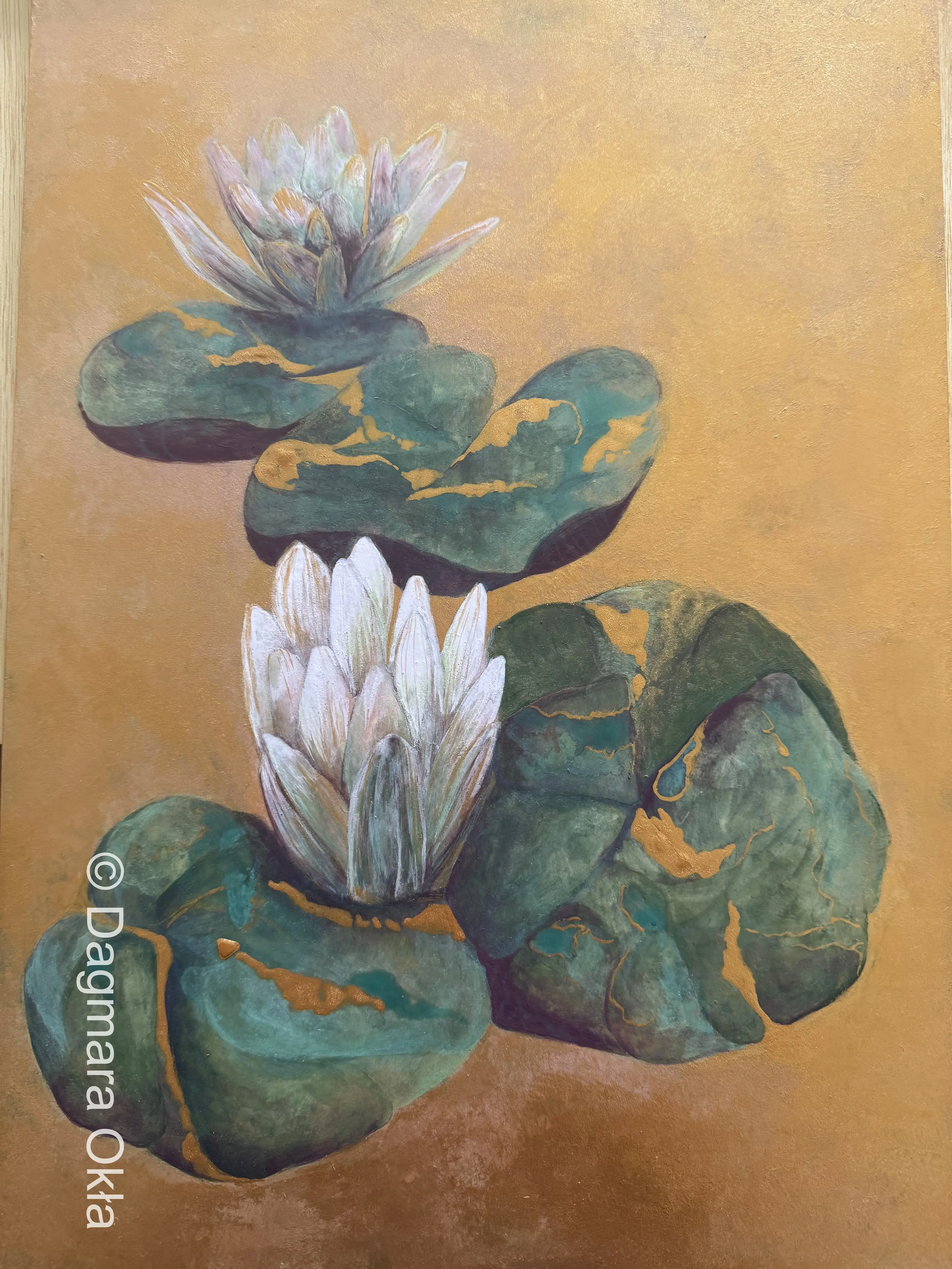
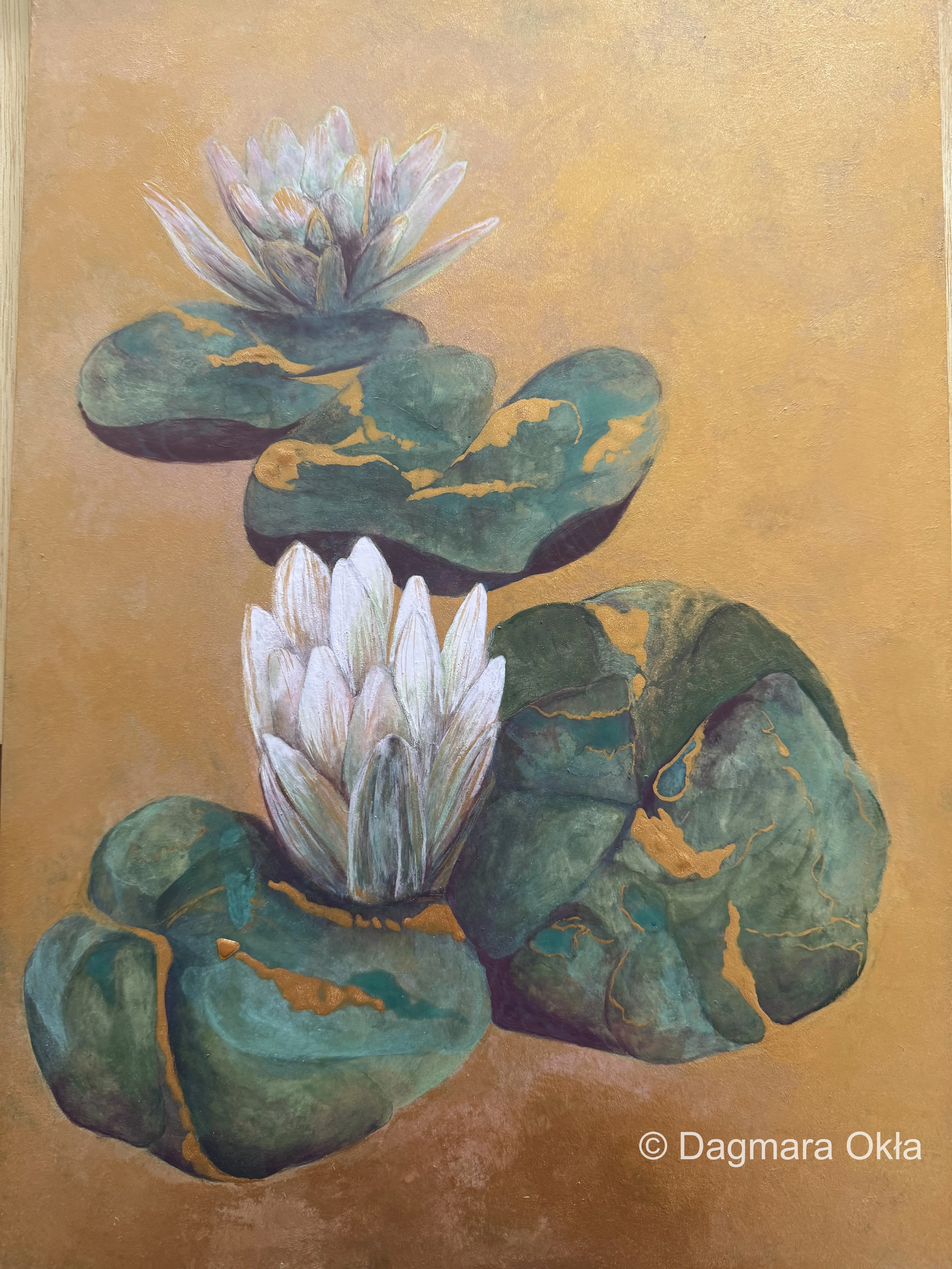
Add Polish lightbox translations, fix rotated images with watermarks

Changed region(s): [[0.0621, 0.6544, 0.1242, 0.966], [0.7141, 0.8725, 0.8693, 0.9349], [0.9003, 0.8725, 0.9624, 0.9349]]

diff --git a/index.html b/index.html
@@ -1927,6 +1927,8 @@
                 'catalog.loading': 'Loading artworks...',
                 'catalog.cta': 'Inquire About Works',
                 'lightbox.zoomHint': 'Click image to zoom',
+                'lightbox.woodenPanel': 'Wooden panel',
+                'lightbox.japanesePaper': 'Japanese paper',
                 'contact.label': 'Get in Touch',
                 'contact.title': "Let's Connect",
                 'contact.intro': "Interested in commissioning a piece, purchasing artwork, or simply want to say hello? I'd love to hear from you.",
@@ -1962,6 +1964,8 @@
                 'catalog.loading': 'Ładowanie dzieł...',
                 'catalog.cta': 'Zapytaj o prace',
                 'lightbox.zoomHint': 'Kliknij obraz, aby powiększyć',
+                'lightbox.woodenPanel': 'Panel drewniany',
+                'lightbox.japanesePaper': 'Papier japoński',
                 'contact.label': 'Kontakt',
                 'contact.title': 'Skontaktuj się',
                 'contact.intro': 'Zainteresowany zamówieniem dzieła, zakupem pracy lub po prostu chcesz się przywitać? Chętnie nawiążę kontakt.',
@@ -2431,11 +2435,24 @@
             // Store high-res path for zoom functionality
             lightboxImage.dataset.highres = `Data/Lightbox_new/Original/${artwork.filename}.webp`;
             
-            // Update caption
+            // Update caption with localization
             document.getElementById('caption-title').textContent = artwork.title;
             document.getElementById('caption-dimensions').textContent = artwork.dimensions;
-            document.getElementById('caption-material').textContent = artwork.material;
-            document.getElementById('caption-paper').textContent = artwork.paper;
+            
+            // Translate material
+            const materialText = artwork.material === 'Wooden panel' 
+                ? translations[currentLang]['lightbox.woodenPanel'] 
+                : artwork.material;
+            document.getElementById('caption-material').textContent = materialText;
+            
+            // Translate paper (keep paper name, translate prefix)
+            let paperText = artwork.paper;
+            if (artwork.paper.startsWith('Japanese paper ')) {
+                const paperName = artwork.paper.replace('Japanese paper ', '');
+                paperText = `${translations[currentLang]['lightbox.japanesePaper']} ${paperName}`;
+            }
+            document.getElementById('caption-paper').textContent = paperText;
+            
             resetZoom();
         }
 
